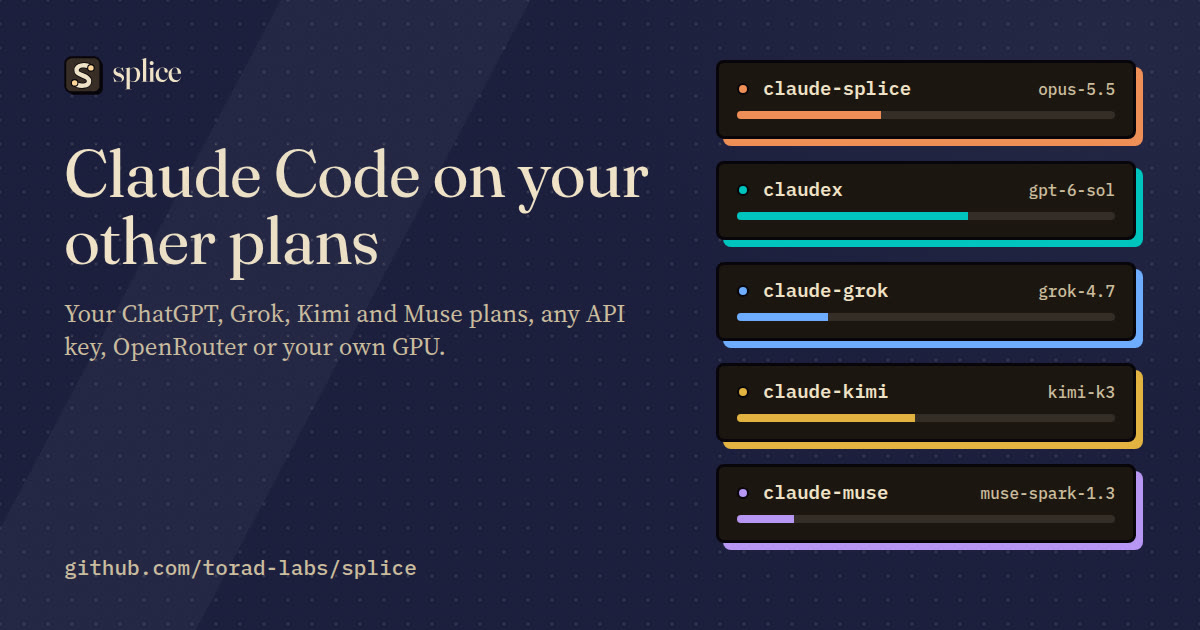
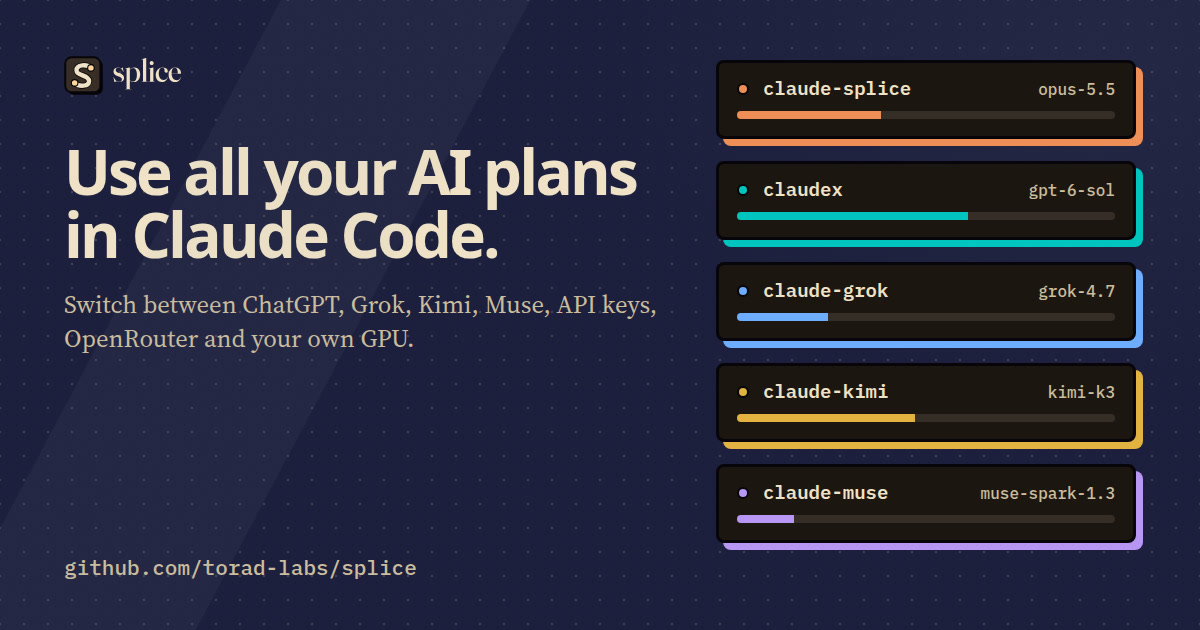
fix(website): make the hero a clear product introduction
The first screen put a dense console example beside a small film and a narrow, centered copy column. The film now leads the wide layout at 1,325 px on Marcos's 3,119 px window, up from 752 px, while the console example follows below it.

- Use the available width up to 2,400 px instead of centering the page in a 1,880 px column.
- Lead with a direct claim and a short line about switching plans without changing how the visitor works, set in a modern UI face.
- Replace the film and install panels' hard outlines and offset casts with quieter borders and spacing.
- Carry the new headline and lead into the social-link card and its alternative text.

Changed region(s): [[0.0308, 0.2111, 0.555, 0.573]]

diff --git a/tools/release/downloads/website/page.css b/tools/release/downloads/website/page.css
@@ -7,13 +7,14 @@
      1 fine print and the install lines   2 buttons, links, nav, facts   3 a band's line and the first screen's line
      4 the footer's name and the menu's links   5 every band heading   6 the first screen's headline (one step above) */
 :root {
+  --pg-font-ui: ui-sans-serif, system-ui, -apple-system, BlinkMacSystemFont, "Segoe UI", sans-serif;
   --pg-t-1: clamp(13px, calc(8px + .35vw), 17px);
   --pg-t-2: clamp(15px, calc(10px + .4vw), 20px);
   --pg-t-3: clamp(18px, calc(12px + .45vw), 28px);
   --pg-t-4: clamp(24px, calc(16px + .6vw), 34px);
   --pg-t-5: clamp(36px, calc(22px + 1.8vw), 76px);
-  /* the headline stops at 110 px, where it still takes two lines in the first screen's column, which stops growing with the page */
-  --pg-t-6: clamp(40px, 4.1vw, 110px);
+  /* the headline is a direct product claim, set in the UI face rather than the display serif */
+  --pg-t-6: clamp(44px, 4.4vw, 88px);
 
   /* ===== the page's spacing steps: 1 to 3 are fixed, 4 to 7 grow with the screen. Band padding, grid gaps and the page's
      parts take their space from these. ===== */
@@ -25,15 +26,12 @@
   --pg-sp-6: clamp(40px, 4vw, 88px);
   --pg-sp-7: clamp(56px, 4.8vw, 112px);
 
-  /* ===== the grid: one fluid container on 12 columns. The side gutter is 4.4vw (18 px on a phone, 63 px at 1440, 112 px at
-     2548, 150 px at most), so the content takes 91% of the width, and it stops at 2,800 px. ===== */
+  /* ===== the grid: the page uses the available width instead of stopping at a narrow centered column. The side gutter is
+     4.4vw (18 px on a phone, 63 px at 1440, 112 px at 2548, 150 px at most), and the content stops at 2,400 px. ===== */
   --pg-g: clamp(18px, 4.4vw, 150px);
   --pg-cg: clamp(14px, 2vw, 56px);
-  --pg-max: 1880px;
+  --pg-max: 2400px;
   --pg-m: max(var(--pg-g), calc((100vw - var(--pg-max)) / 2));
-  /* the first screen's right gutter: the container's own margin, down to 16 px where the stage (its box, ink outline and cast)
-     would otherwise fall under 740 px wide, between 1,400 and 1,460 px; the board's outline and cast always show */
-  --fr-rg: clamp(16px, calc(93vw - 1308px), var(--pg-m));
   /* the first screen's left column and the closing band step by two sizes: 32 px between a heading and what it leads, 56 px between parts */
   --fr-s: calc(2 * var(--pg-sp-3));
   --fr-l: calc(3.5 * var(--pg-sp-3));
@@ -195,16 +193,16 @@ main, .fr-foot { position: relative; z-index: 1; }
 @media (max-width: 820px) { .fr-hdr-in .act { padding: 0 14px; } }
 @media (min-width: 1201px) { .fr-sheet { display: none !important; } }
 
-/* ===== first screen: the claim and the install on the left, the live stage on the right, running to the screen's right edge.
-   Below 1,400 px it stacks: the claim, the install, the stage, then the facts. ===== */
-.fr-first { position: relative; isolation: isolate; padding: 0 0 var(--pg-sp-5); }
-.fr-hero { position: relative; display: grid; grid-template-columns: minmax(0, 1fr); grid-template-areas: "h" "lead" "inst" "film" "stage" "facts"; padding-inline: var(--pg-g); padding-top: calc(var(--fr-hh) + var(--pg-sp-5)); }
-.fr-h1 { grid-area: h; margin: 0; font: 400 var(--pg-t-6)/1.02 var(--font-lead); letter-spacing: -.016em; color: var(--text); text-wrap: balance; }
-.fr-lead { grid-area: lead; margin: var(--pg-sp-4) 0 0; font: 400 var(--pg-t-3)/1.4 var(--font-name); color: var(--text-body); max-width: 30em; text-wrap: pretty; }
-.fr-r { grid-area: inst; container: fr-i / inline-size; min-width: 0; margin-top: var(--pg-sp-5); }
+/* ===== first screen: one clear claim and install action beside a large film. The dense product example follows below,
+   so the first thing a visitor reads is what splice does for them rather than a wall of console cards. ===== */
+.fr-first { position: relative; isolation: isolate; padding: 0 0 var(--pg-sp-6); background: radial-gradient(70% 65% at 88% 12%, color-mix(in oklab, var(--claude) 8%, transparent), transparent 72%), linear-gradient(var(--wall-low), var(--wall-low)); }
+.fr-hero { position: relative; display: grid; grid-template-columns: minmax(0, 1fr); grid-template-areas: "h" "lead" "inst" "film" "facts" "stage"; padding-inline: var(--pg-g); padding-top: calc(var(--fr-hh) + var(--pg-sp-5)); box-sizing: border-box; }
+.fr-h1 { grid-area: h; margin: 0; max-width: 14em; font: 600 var(--pg-t-6)/1.02 var(--pg-font-ui); letter-spacing: -.055em; color: var(--text); text-wrap: balance; }
+.fr-lead { grid-area: lead; margin: var(--pg-sp-4) 0 0; font: 400 var(--pg-t-3)/1.5 var(--pg-font-ui); color: var(--text-body); max-width: 34em; text-wrap: pretty; }
+.fr-r { grid-area: inst; container: fr-i / inline-size; min-width: 0; margin-top: var(--pg-sp-4); }
 /* the film shows itself like a video thumbnail: it rests on its title card, plays its own frames muted while the pointer is over it, and
    carries a play mark, its name and its length in one dark label on its foot; a click opens it with sound */
-.fr-film { grid-area: film; position: relative; display: block; width: 100%; aspect-ratio: 16 / 9; margin-top: var(--pg-sp-4); overflow: hidden; color: var(--splice-cream); text-decoration: none; background: var(--obj-sunk); border: var(--ink-w) solid var(--ink); border-radius: var(--r-obj); box-shadow: var(--cast) var(--cast) 0 var(--ink); }
+.fr-film { grid-area: film; position: relative; display: block; width: 100%; aspect-ratio: 16 / 9; margin-top: var(--pg-sp-4); overflow: hidden; color: var(--splice-cream); text-decoration: none; background: var(--obj-sunk); border: 1px solid color-mix(in oklab, var(--text) 16%, transparent); border-radius: 18px; box-shadow: 0 24px 80px rgb(0 0 0 / .24); }
 .fr-pv { position: absolute; inset: 0; width: 100%; height: 100%; object-fit: cover; display: block; }
 .fr-pt { position: absolute; left: 14px; bottom: 14px; display: flex; align-items: center; gap: 10px; padding: 6px 14px 6px 6px; font-size: var(--pg-t-2); line-height: 1; background: rgb(0 0 0 / .8); border-radius: 999px; }
 .fr-pt b { font: 500 var(--pg-t-2)/1 var(--font-data); opacity: .8; }
@@ -212,7 +210,7 @@ main, .fr-foot { position: relative; z-index: 1; }
 .fr-pl svg { width: 16px; height: 16px; margin-left: 2px; }
 .fr-film:hover .fr-pl, .fr-film:focus-visible .fr-pl { transform: scale(1.1); }
 .fr-film:focus-visible { outline: var(--ink-w) solid var(--text); outline-offset: .2rem; }
-.fr-copy { display: grid; grid-template-columns: minmax(0, 1fr) auto; column-gap: var(--pg-sp-3); align-items: start; padding: var(--pg-sp-3) var(--pg-sp-3) var(--pg-sp-3) var(--pg-sp-4); background: var(--obj); border: var(--ink-w) solid var(--ink); border-radius: var(--r-obj); box-shadow: var(--cast) var(--cast) 0 var(--ink); }
+.fr-copy { display: grid; grid-template-columns: minmax(0, 1fr) auto; column-gap: var(--pg-sp-3); align-items: start; padding: var(--pg-sp-3) var(--pg-sp-3) var(--pg-sp-3) var(--pg-sp-4); background: color-mix(in oklab, var(--obj) 88%, transparent); border: 1px solid color-mix(in oklab, var(--text) 14%, transparent); border-radius: 14px; }
 .fr-lines { min-width: 0; }
 .fr-cl { margin: 0; display: flex; gap: .8em; font: 500 var(--pg-t-1)/1.9 var(--font-data); color: var(--text); }
 .fr-cl code { font: inherit; min-width: 0; overflow-wrap: anywhere; }
@@ -242,11 +240,11 @@ main, .fr-foot { position: relative; z-index: 1; }
 .fr-facts .act svg { width: 14px; height: 14px; }
 
 /* the stage: a container the product window answers to, so the window fits its column by layout at every width */
-.fr-stage { grid-area: stage; container: stg / inline-size; min-width: 0; margin-top: var(--pg-sp-5); }
+.fr-stage { grid-area: stage; container: stg / inline-size; min-width: 0; width: min(100%, 1760px); justify-self: center; margin-top: var(--pg-sp-6); }
 .fr-heroart { grid-area: art; display: none; }
 .fr-heroart .fr-art-w { display: none; }
 @container pg (max-width: 640px) {
-  .fr-stage { margin-inline: calc(-1 * var(--pg-g)); margin-top: var(--pg-sp-4); }
+  .fr-stage { width: auto; justify-self: stretch; margin-inline: calc(-1 * var(--pg-g)); margin-top: var(--pg-sp-4); }
   .fr-stage .fr-win { border-left: 0; border-right: 0; }
   .fr-hero { padding-top: calc(var(--fr-hh) + var(--pg-sp-3)); }
   .fr-lead { margin-top: var(--pg-sp-3); }
@@ -258,18 +256,15 @@ main, .fr-foot { position: relative; z-index: 1; }
   .fr-pl { width: 24px; height: 24px; }
   .fr-pl svg { width: 11px; height: 11px; margin-left: 1px; }
 }
-@container pg (min-width: 1400px) {
-  /* the left column stands centred against the board, so neither column leaves a hole under it */
-  .fr-hero { grid-template-columns: minmax(0, clamp(540px, 40%, 1100px)) var(--pg-sp-5) minmax(0, 1fr); grid-template-rows: 1fr repeat(6, auto) 1fr; grid-template-areas: ". . stage" "h . stage" "lead . stage" "inst . stage" "film . stage" "facts . stage" "art . stage" ". . stage"; padding-left: var(--pg-m); padding-right: var(--fr-rg); padding-top: calc(var(--fr-hh) + var(--pg-sp-5)); box-sizing: border-box; }
-  .fr-h1 { margin-top: 0; }
-  /* the left column steps the same at every width: 32 px from headline to line, 56 between the parts, 32 from the install to the film */
-  .fr-lead { margin-top: var(--fr-s); }
-  .fr-r { margin-top: var(--fr-l); }
-  .fr-film { margin-top: var(--fr-s); }
-  .fr-facts { margin-top: var(--fr-l); }
-  .fr-stage { margin: 0; padding-top: 0; padding-bottom: var(--pg-sp-3); align-self: center; }
-  /* the drawing stands at the column's foot, 56 px under the facts: tall while the column is narrow, wide from 2,100 px */
-  /* the film preview is the column's picture, so its drawing stays off */
+@container pg (min-width: 1100px) {
+  /* The film leads on every wide screen. The console example is full width below it, never a second hero competing for attention. */
+  .fr-hero { grid-template-columns: minmax(0, .85fr) minmax(0, 1.15fr); grid-template-rows: repeat(4, auto) auto; grid-template-areas: "h film" "lead film" "inst film" "facts film" "stage stage"; column-gap: clamp(40px, 4vw, 96px); padding-left: var(--pg-m); padding-right: var(--pg-m); }
+  .fr-h1 { max-width: 12em; }
+  .fr-lead { margin-top: var(--pg-sp-4); }
+  .fr-r { margin-top: var(--pg-sp-5); }
+  .fr-film { grid-row: 1 / span 4; align-self: start; margin-top: 0; }
+  .fr-facts { margin-top: var(--pg-sp-4); }
+  .fr-stage { margin-top: var(--pg-sp-7); }
 }
 @container pg (min-width: 2100px) {
   .fr-heroart .fr-art-t { display: none; }

diff --git a/tools/release/downloads/website/page.html b/tools/release/downloads/website/page.html
@@ -20,12 +20,12 @@
   <meta property="og:image:width" content="1200">
   <meta property="og:image:height" content="630">
   <meta property="og:image:type" content="image/jpeg">
-  <meta property="og:image:alt" content="splice. Claude Code on your other plans. Your ChatGPT, Grok, Kimi and Muse plans, any API key, OpenRouter or your own GPU. github.com/torad-labs/splice. Beside it, five drawn command cards with their models and meters: claude-splice on opus-5.5, claudex on gpt-6-sol, claude-grok on grok-4.7, claude-kimi on kimi-k3 and claude-muse on muse-spark-1.3.">
+  <meta property="og:image:alt" content="splice. Use all your AI plans in Claude Code. Switch between ChatGPT, Grok, Kimi, Muse, API keys, OpenRouter and your own GPU. github.com/torad-labs/splice. Beside it, five drawn command cards with their models and meters: claude-splice on opus-5.5, claudex on gpt-6-sol, claude-grok on grok-4.7, claude-kimi on kimi-k3 and claude-muse on muse-spark-1.3.">
   <meta name="twitter:card" content="summary_large_image">
   <meta name="twitter:title" content="splice · Claude Code on GPT, Grok, Kimi and Muse · Torad Labs">
   <meta name="twitter:description" content="Keep your Claude Code, with its sessions, hooks and skills, and run it on your ChatGPT, Grok, Kimi or Muse plan, OpenRouter or your own GPU. The sessions hand work to each other. Free and open source.">
   <meta name="twitter:image" content="https://splice.torad.ai/splice-og.jpg">
-  <meta name="twitter:image:alt" content="splice. Claude Code on your other plans. Your ChatGPT, Grok, Kimi and Muse plans, any API key, OpenRouter or your own GPU. github.com/torad-labs/splice. Beside it, five drawn command cards with their models and meters: claude-splice on opus-5.5, claudex on gpt-6-sol, claude-grok on grok-4.7, claude-kimi on kimi-k3 and claude-muse on muse-spark-1.3.">
+  <meta name="twitter:image:alt" content="splice. Use all your AI plans in Claude Code. Switch between ChatGPT, Grok, Kimi, Muse, API keys, OpenRouter and your own GPU. github.com/torad-labs/splice. Beside it, five drawn command cards with their models and meters: claude-splice on opus-5.5, claudex on gpt-6-sol, claude-grok on grok-4.7, claude-kimi on kimi-k3 and claude-muse on muse-spark-1.3.">
   <script type="application/ld+json">{"@context":"https://schema.org","@graph":[{"@type":"Organization","@id":"https://torad.ai/#org","name":"Torad Labs","url":"https://torad.ai/","logo":{"@type":"ImageObject","url":"https://torad.ai/icon-512.png"},"description":"Torad Labs develops model systems and multi-agent software for technical work.","founder":{"@type":"Person","name":"Marcos Damasceno"},"sameAs":["https://blog.torad.ai"]},{"@type":"WebSite","@id":"https://torad.ai/#website","url":"https://torad.ai/","name":"Torad Labs","publisher":{"@id":"https://torad.ai/#org"},"inLanguage":"en"},{"@type":"WebPage","@id":"https://splice.torad.ai/#webpage","url":"https://splice.torad.ai/","name":"splice · Claude Code on GPT, Grok, Kimi and Muse · Torad Labs","description":"Keep your Claude Code, with its sessions, hooks and skills, and run it on your ChatGPT, Grok, Kimi or Muse plan, OpenRouter or your own GPU. The sessions hand work to each other. Free and open source.","isPartOf":{"@id":"https://torad.ai/#website"},"about":{"@id":"https://torad.ai/#org"},"breadcrumb":{"@id":"https://splice.torad.ai/#breadcrumb"},"inLanguage":"en"},{"@type":"BreadcrumbList","@id":"https://splice.torad.ai/#breadcrumb","itemListElement":[{"@type":"ListItem","position":1,"name":"Home","item":"https://torad.ai/"},{"@type":"ListItem","position":2,"name":"splice","item":"https://splice.torad.ai/"}]},{"@type":"SoftwareApplication","@id":"https://splice.torad.ai/#app","name":"splice","applicationCategory":"DeveloperApplication","operatingSystem":"Linux, macOS, Windows (WSL2)","description":"Keep your Claude Code, with its sessions, hooks and skills, and run it on your ChatGPT, Grok, Kimi or Muse plan, OpenRouter or your own GPU. The sessions hand work to each other. Free and open source.","publisher":{"@id":"https://torad.ai/#org"},"url":"https://splice.torad.ai/"}]}</script>
   <link rel="icon" href="/favicon.ico" sizes="any">
   <link rel="icon" href="/favicon.svg" type="image/svg+xml">
@@ -80,10 +80,10 @@
   <!-- console: sessions.css knobs.css accounts.css models.css teams.css -->
     <section class="fr-first" aria-labelledby="fr-h1">
       <div class="fr-hero">
-        <h1 class="fr-h1" id="fr-h1">Claude Code on your other plans</h1>
-          <p class="fr-lead">Use your ChatGPT, Grok, Kimi and Muse plans, any API key, OpenRouter or your own GPU.</p>
+        <h1 class="fr-h1" id="fr-h1">Use all your AI plans in Claude Code.</h1>
+          <p class="fr-lead">Switch between ChatGPT, Grok, Kimi, Muse, API keys, OpenRouter and your own GPU without changing how you work.</p>
           <div class="fr-r"><div class="fr-copy" role="group" aria-label="Install"><div class="fr-lines"><p class="fr-cl"><span class="fr-ps" aria-hidden="true">$</span><code>curl -fsSL https://splice.torad.ai<wbr>/download<wbr>/install.sh | bash</code></p><p class="fr-cl"><span class="fr-ps" aria-hidden="true">$</span><code>splice add codex</code></p><p class="fr-cl"><span class="fr-ps" aria-hidden="true">$</span><code>claudex</code></p></div><button class="act primary fr-copybtn" type="button" data-copy="curl -fsSL https://splice.torad.ai/download/install.sh | bash" title="Copy the install command" aria-live="polite" hidden><span class="fr-cb fr-cb-a" data-copy-label><svg viewBox="0 0 24 24" width="1em" height="1em" fill="none" stroke="currentColor" stroke-width="2" stroke-linecap="round" stroke-linejoin="round" aria-hidden="true"><rect x="9" y="9" width="11" height="11" rx="2"/><path d="M5 15V6a2 2 0 0 1 2-2h8"/></svg><span>Copy</span></span><span class="fr-cb fr-cb-b" data-copied-label aria-hidden="true"><svg viewBox="0 0 24 24" width="1em" height="1em" fill="none" stroke="currentColor" stroke-width="2" stroke-linecap="round" stroke-linejoin="round" aria-hidden="true"><path d="M5 12.5l4.5 4.5L19 7.5"/></svg><span>Copied</span></span></button></div><p class="fr-plat">macOS, Linux, WSL2<span aria-hidden="true"> · </span>Java 21 or newer</p></div>
-          <a class="fr-film" href="/landing/products/splice/assets/splice-0.4.0.mp4" data-film aria-haspopup="dialog"><video class="fr-pv" src="/landing/products/splice/assets/splice-0.4.0.mp4#t=7" muted loop playsinline preload="metadata" aria-hidden="true" tabindex="-1"></video><span class="fr-pt"><span class="fr-pl"><svg viewBox="0 0 24 24" width="1em" height="1em" fill="currentColor" aria-hidden="true"><path d="M8 5.4v13.2L19 12z"/></svg></span><span>Play the film</span><b>53 s</b></span></a>
+          <a class="fr-film" href="/landing/products/splice/assets/splice-0.4.0.mp4" data-film aria-haspopup="dialog" aria-label="Watch the 53-second splice tour"><video class="fr-pv" src="/landing/products/splice/assets/splice-0.4.0.mp4#t=7" muted loop playsinline preload="metadata" aria-hidden="true" tabindex="-1"></video><span class="fr-pt"><span class="fr-pl"><svg viewBox="0 0 24 24" width="1em" height="1em" fill="currentColor" aria-hidden="true"><path d="M8 5.4v13.2L19 12z"/></svg></span><span>Watch the tour</span><b>53 s</b></span></a>
       <div class="fr-stage"><div class="fr-win" data-reveal role="group" aria-label="splice: Claude Code commands on one side, plans, keys and a GPU on the other">
   <div class="fr-side fr-cc">
 <h3 class="fr-gh"><i class="blot" aria-hidden="true"></i>Without splice: Claude models only</h3>

diff --git a/tools/release/downloads/website/social-card.html b/tools/release/downloads/website/social-card.html
@@ -11,7 +11,7 @@
   .glow { position: absolute; inset: 0; background: radial-gradient(60% 80% at 92% 8%, var(--shaft), transparent 70%); }
   .copy { position: absolute; left: 64px; top: 56px; width: 600px; }
   .mark { height: 40px; display: block; }
-  h1 { margin: 44px 0 0; font: 400 66px/1.02 var(--font-lead); letter-spacing: -.01em; color: var(--text); }
+  h1 { margin: 44px 0 0; font: 600 62px/1.02 ui-sans-serif, system-ui, -apple-system, BlinkMacSystemFont, "Segoe UI", sans-serif; letter-spacing: -.045em; color: var(--text); }
   p.lead { margin: 22px 0 0; font: 400 25px/1.35 var(--font-name); color: var(--text-body); max-width: 30em; }
   p.url { position: absolute; left: 64px; bottom: 52px; margin: 0; font: 500 21px/1 var(--font-data); color: var(--text-body); }
   .stack { position: absolute; right: 64px; top: 60px; width: 420px; display: grid; gap: 22px; }
@@ -27,8 +27,8 @@
   <div class="ground"></div><div class="glow"></div>
   <div class="copy">
     <img class="mark" src="/console/brand/splice-horizontal-night.svg" alt="splice">
-    <h1>Claude Code on your other plans</h1>
-    <p class="lead">Your ChatGPT, Grok, Kimi and Muse plans, any API key, OpenRouter or your own GPU.</p>
+    <h1>Use all your AI plans in Claude Code.</h1>
+    <p class="lead">Switch between ChatGPT, Grok, Kimi, Muse, API keys, OpenRouter and your own GPU.</p>
   </div>
   <p class="url">github.com/torad-labs/splice</p>
   <div class="stack">
